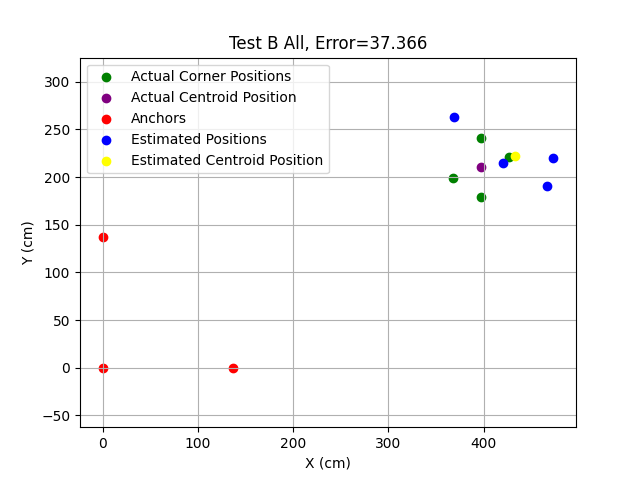
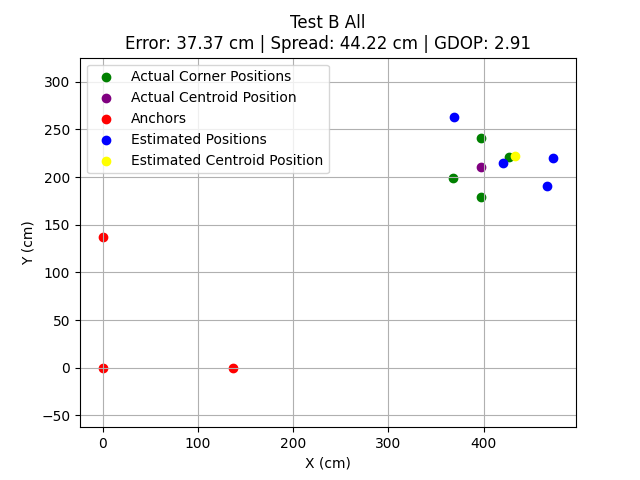
a bunch of results

Changed region(s): [[0.1875, 0.0312, 0.8125, 0.125]]

diff --git a/scripts/pos_analysis.py b/scripts/pos_analysis.py
@@ -189,6 +189,36 @@ def remove_anchor_data(anchors, distances_list, removed_indices):
 
     return new_anchors, new_distances
 
+def compute_gdop(anchors, est_pos):
+    H = []
+    x, y = est_pos
+
+    for xi, yi in anchors:
+        r = np.sqrt((x - xi)**2 + (y - yi)**2)
+        H.append([(x - xi)/r, (y - yi)/r])
+
+    H = np.array(H)
+    Q = np.linalg.inv(H.T @ H)
+    gdop = np.sqrt(np.trace(Q))
+    return gdop
+
+def allan_deviation(data, tau_values):
+    adev = []
+
+    for tau in tau_values:
+        m = int(tau)
+        if 2*m >= len(data):
+            break
+
+        diffs = [
+            np.mean(data[i+m:i+2*m]) - np.mean(data[i:i+m])
+            for i in range(len(data) - 2*m)
+        ]
+
+        adev.append(np.sqrt(0.5 * np.mean(np.square(diffs))))
+
+    return np.array(adev)
+
 def analyze_test(input_file, plot_title, remove_anchors=None, remove_corners=None, use_cal=False):
     origin, angle, corners = parse_measurements(f"{DATA_FILE_DIR}{input_file}")
 
@@ -232,7 +262,13 @@ def analyze_test(input_file, plot_title, remove_anchors=None, remove_corners=Non
     y_est_centroid = np.mean(y_est_corners)
 
     centroid_err = distance((x_est_centroid, y_est_centroid), centroid_true)
-    print(f"{plot_title} Centroid Error: {centroid_err} cm")
+    spread = np.mean([
+        distance((x, y), (x_est_centroid, y_est_centroid))
+        for x, y in zip(x_est_corners, y_est_corners)
+    ])
+    gdop = compute_gdop(anchors, centroid_true)
+    output_stats = f"Error: {centroid_err:.2f} cm | Spread: {spread:.2f} cm | GDOP: {gdop:.2f}"
+    print(output_stats)
 
     plt.scatter(x_true_corners, y_true_corners, color="green", label="Actual Corner Positions")
     plt.scatter(centroid_true[0], centroid_true[1], color='purple', label="Actual Centroid Position")
@@ -244,18 +280,33 @@ def analyze_test(input_file, plot_title, remove_anchors=None, remove_corners=Non
     plt.xlabel("X (cm)")
     plt.ylabel("Y (cm)")
     plt.legend()
-    plt.title(f"{plot_title}, Error={centroid_err:.3f}")
+    plt.title(f"{plot_title}\n{output_stats}")
     plt.grid(True)
     plt.axis('equal')
     plt.savefig(f"{OUTPUT_FILE_DIR}{plot_title}.png")
     plt.close()
 
-analyze_test("test_a.txt", "Test A All")
-analyze_test("test_b.txt", "Test B All")
-analyze_test("test_c.txt", "Test C All")
-analyze_test("test_d.txt", "Test D All")
-analyze_test("test_e.txt", "Test E All")
-analyze_test("test_b.txt", "Test B All Calibrated", use_cal=True)
+def analyze_time_series(data, label):
+    taus = np.logspace(0, 3, 50)
+    adev = allan_deviation(data, taus)
 
-analyze_test("test_d.txt", "Test D Removed 0", 0)
-analyze_test("test_d.txt", "Test D Removed Corners 2 & 3", remove_corners=[2,3])
+    plt.loglog(taus[:len(adev)], adev, label=label)
+
+analyze_test("test_a.txt", "Test A All")
+analyze_test("test_a.txt", "Test A Removed Anchor 0", 0)
+analyze_test("test_a.txt", "Test A Removed Anchor 1", 1)
+analyze_test("test_a.txt", "Test A Removed Anchor 2", 2)
+
+analyze_test("test_b.txt", "Test B All")
+analyze_test("test_b.txt", "Test B Removed Anchor 0", 0)
+analyze_test("test_b.txt", "Test B Removed Anchor 1", 1)
+analyze_test("test_b.txt", "Test B Removed Anchor 2", 2)
+
+analyze_test("test_c.txt", "Test C All")
+analyze_test("test_c.txt", "Test C Removed Anchor 0", 0)
+
+analyze_test("test_d.txt", "Test D All")
+analyze_test("test_d.txt", "Test D Removed Anchor 0", 0)
+
+analyze_test("test_e.txt", "Test E All")
+analyze_test("test_e.txt", "Test E Removed Anchor 0", 0)
